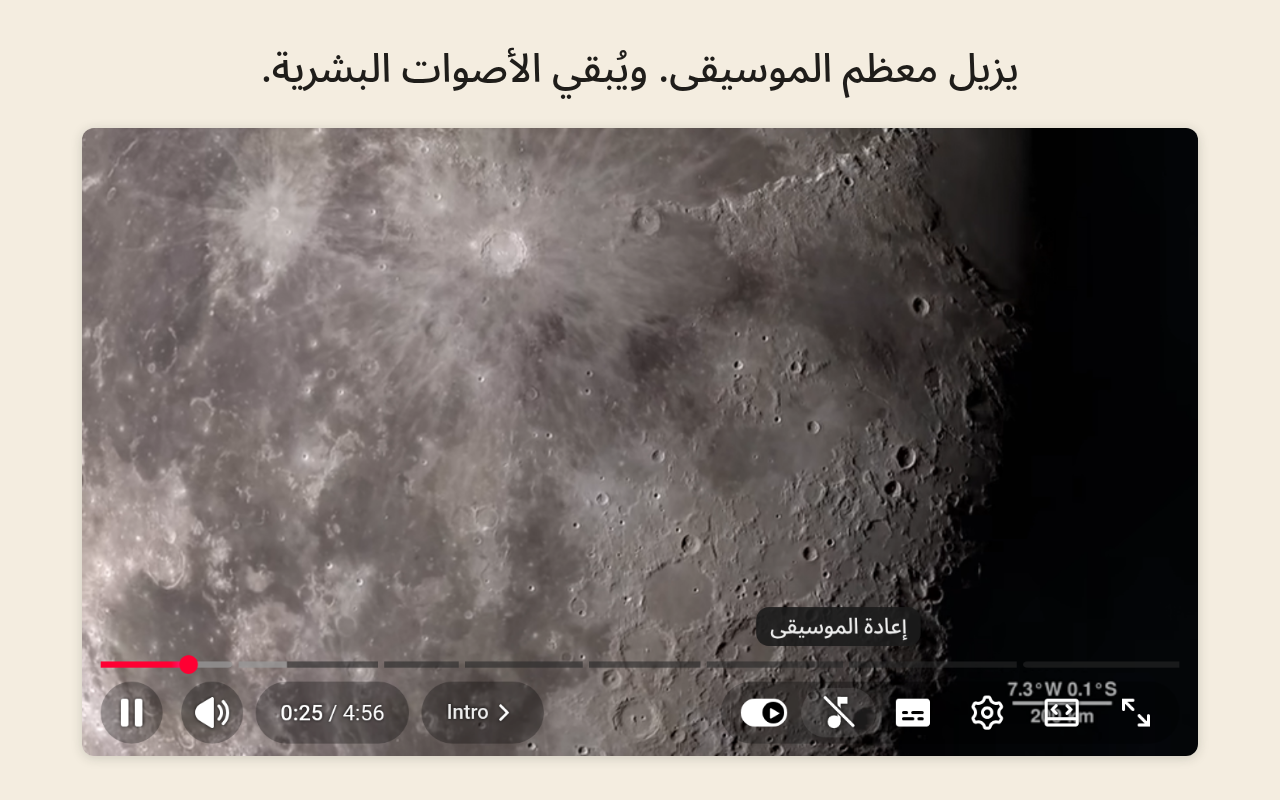
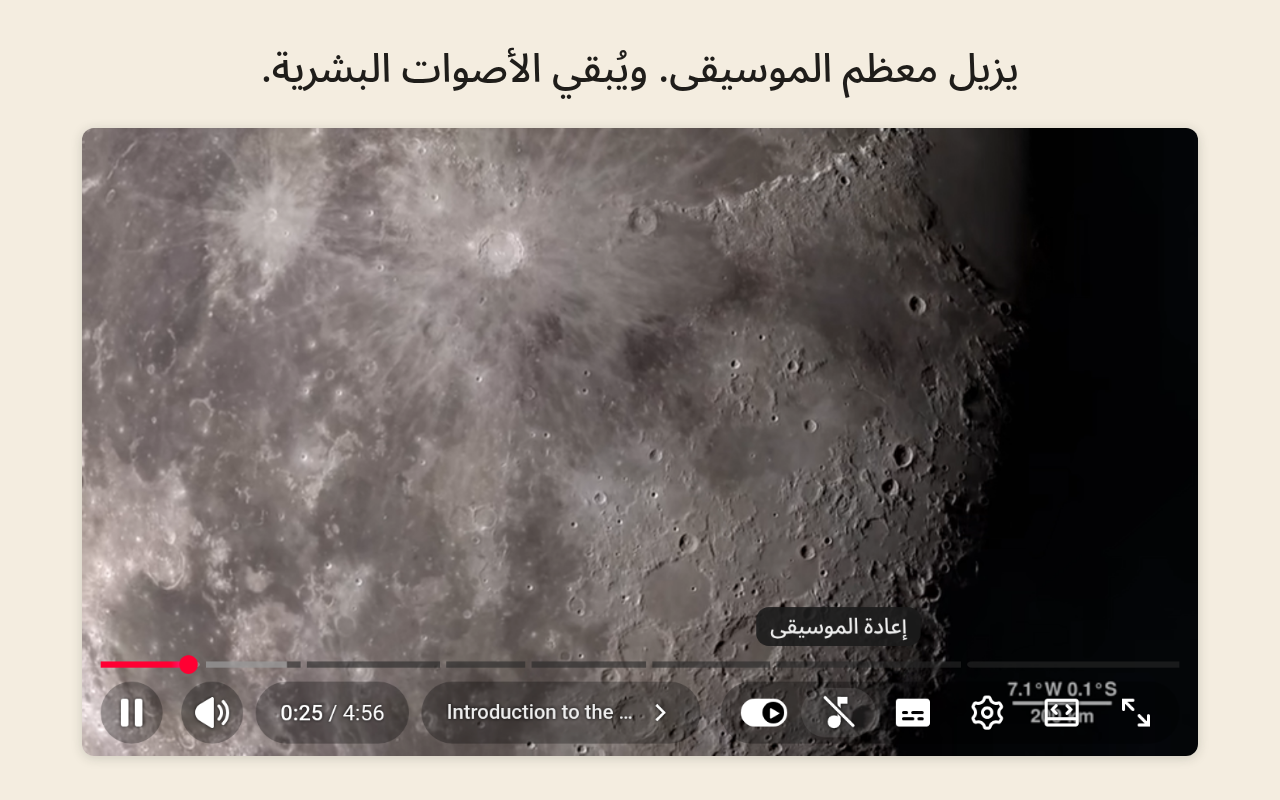
Refresh store screenshots and link the supplied social preview
Refresh the English and Arabic playback and manual-mode screenshots.
Point the release checklist to the supplied GitHub social preview.

diff --git a/docs/release.md b/docs/release.md
@@ -183,7 +183,7 @@ After `main` is the extension, and before you announce it:
 1. **Description.** "Removes the background music from YouTube videos and keeps the voices. A Chrome extension; everything runs on your computer."
 2. **Topics.** `browser-extension`, `chrome-extension`, `chromium`, `webextension`, `youtube`, `privacy`, `onnx`, `webassembly`.
 3. **Homepage.** Empty until the Chrome Web Store listing is live, then that listing URL.
-4. **Social preview.** A PNG, JPG, or GIF under 1 MB, ideally 1280×640. The store tile is 440×280, so use a different image. A workable line is "YouTube, without the music".
+4. **Social preview.** Upload [store/github-social-1280x640.png](store/github-social-1280x640.png), the supplied 1280×640 Musicless image.
 5. **License.** Confirm the About box says MIT.
 6. **Private vulnerability reporting.** Turn it on. [SECURITY.md](../SECURITY.md) points at that form.
 7. **Dependabot.** Turn on alerts and security updates. `.github/dependabot.yml` covers Actions version updates only.
